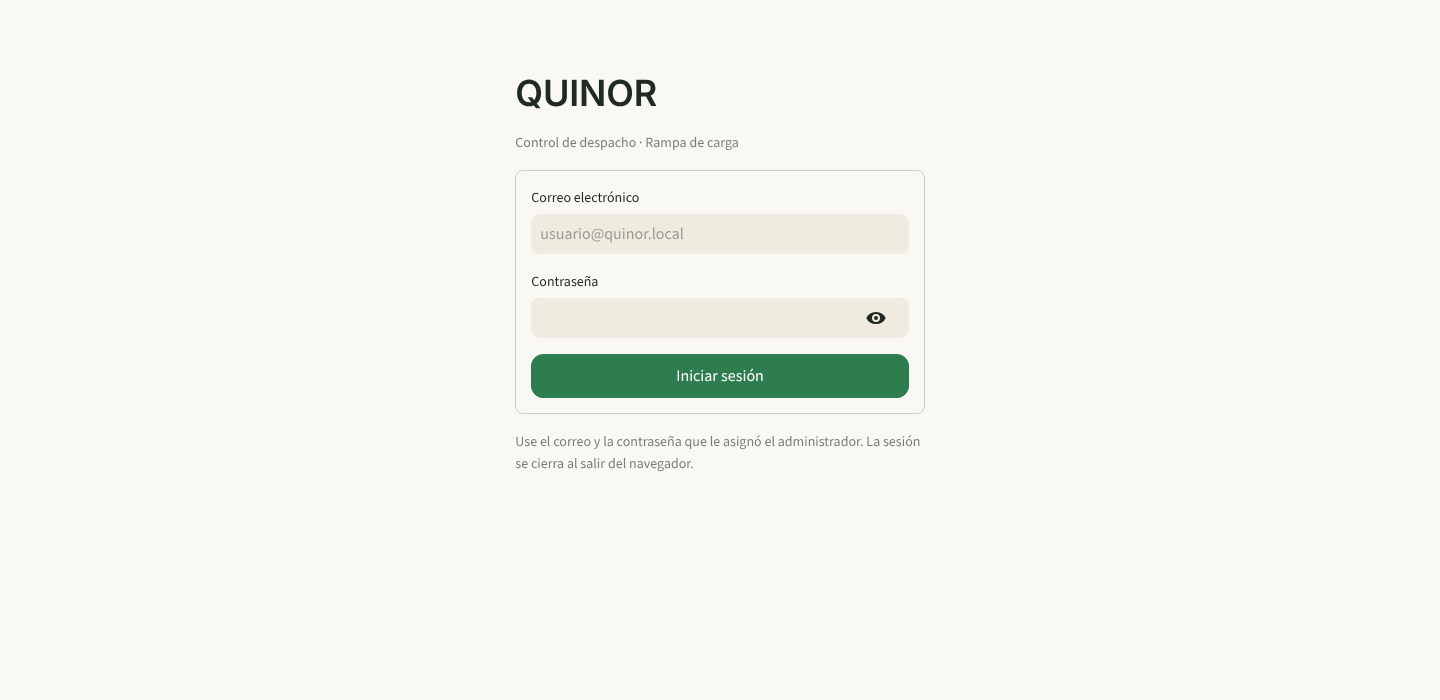
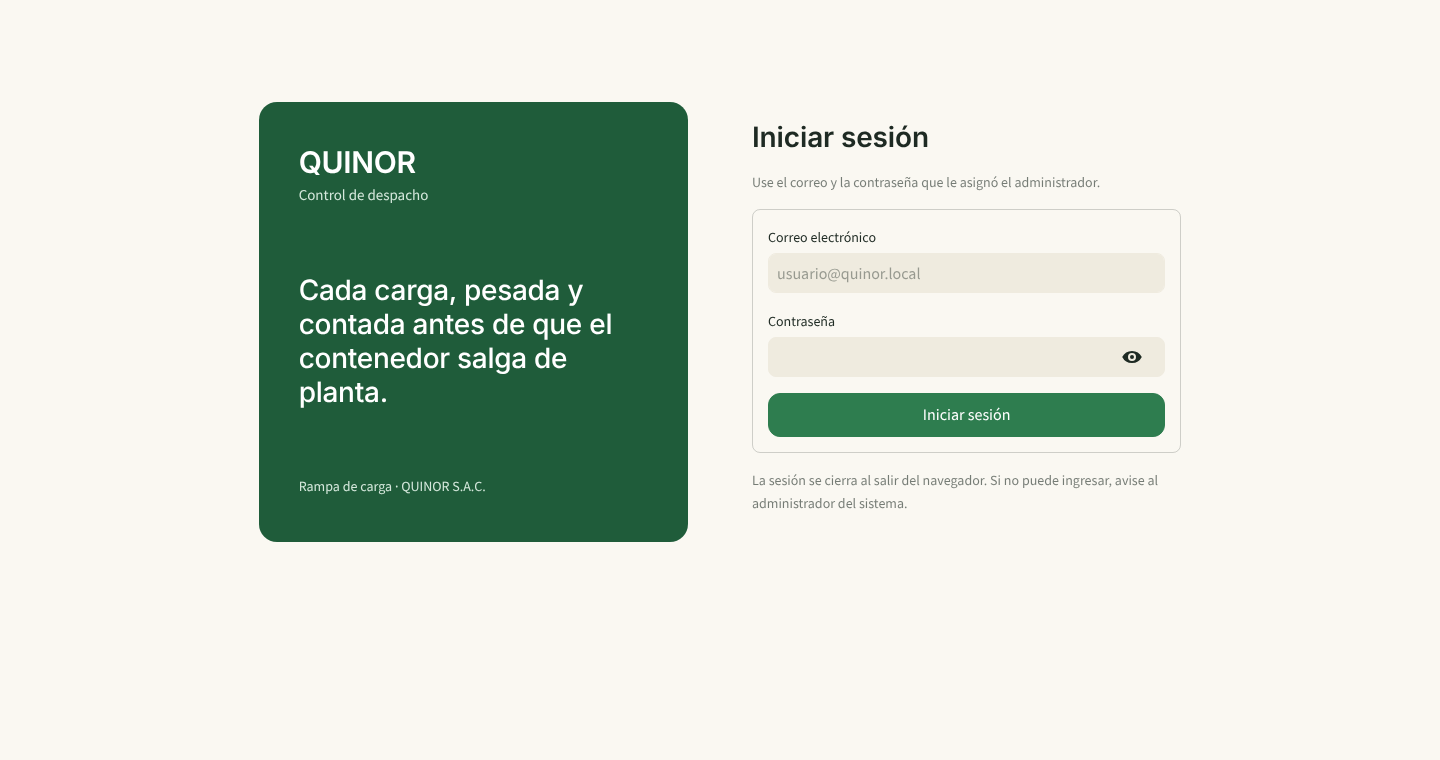
pruebas de nuevos cambios de ux

diff --git a/despacho/api/dashboard/app.py b/despacho/api/dashboard/app.py
@@ -95,6 +95,8 @@ h1, h2, h3, h4, [data-testid="stMetricValue"] {font-family: 'Space Grotesk', Int
 .q-vivo i {width: 8px; height: 8px; border-radius: 50%; background: #2E8B57; animation: q-pulso 2s infinite;}
 .q-vivo.q-caido {color: #9B2C14; font-weight: 500;}
 .q-vivo.q-caido i {background: #9B2C14; animation: none;}
+.q-vivo.q-aviso {color: #7A4F00;}
+.q-vivo.q-aviso i {background: #C98A00; animation: none;}
 @keyframes q-pulso {0% {box-shadow: 0 0 0 0 rgba(46,139,87,.55);} 70% {box-shadow: 0 0 0 10px rgba(46,139,87,0);} 100% {box-shadow: 0 0 0 0 rgba(46,139,87,0);}}
 .q-pasos {display: flex; gap: 6px; margin: 4px 0 2px;}
 .q-paso {flex: 1; display: flex; flex-direction: column; gap: 5px; min-width: 0;}
@@ -116,6 +118,12 @@ h1, h2, h3, h4, [data-testid="stMetricValue"] {font-family: 'Space Grotesk', Int
 .q-dif {font: 500 26px/1.1 'Space Grotesk', Inter, sans-serif; color: #9B2C14; font-variant-numeric: tabular-nums;}
 .q-hall {display: inline-block; font-size: 13px; font-weight: 600; padding: 4px 10px; border-radius: 8px; border: 1px solid #CFC9BA; color: #3A4640; margin-bottom: 6px;}
 .q-hall.q-sust {background: #1E2A23; border-color: #1E2A23; color: #FFFFFF;}
+.q-marca {background: #1F5C3A; color: #FFFFFF; border-radius: 18px; padding: 44px 40px; min-height: 440px; display: flex; flex-direction: column; justify-content: space-between; gap: 32px;}
+.q-marca .q-nombre {font: 600 30px/1.1 'Space Grotesk', Inter, sans-serif; letter-spacing: -.01em;}
+.q-marca .q-sub {color: #D5E8DC; font-size: 15px; margin-top: 4px;}
+.q-marca .q-lema {font: 500 28px/1.22 'Space Grotesk', Inter, sans-serif; letter-spacing: -.01em; max-width: 420px;}
+.q-marca .q-pie {color: #D5E8DC; font-size: 14px;}
+@media (max-width: 760px) {.q-marca {min-height: 0; padding: 28px 24px; gap: 18px;} .q-marca .q-lema {font-size: 21px;}}
 .q-lectura {font: 500 48px/1.15 'Space Grotesk', Inter, sans-serif; letter-spacing: -.02em; font-variant-numeric: tabular-nums; margin: 2px 0 18px;}
 .q-reloj {font: 400 30px/1 'Space Grotesk', Inter, sans-serif; letter-spacing: -.03em; font-variant-numeric: tabular-nums;}
 </style>
@@ -222,23 +230,42 @@ def _intentar_ingreso(correo: str, clave: str) -> None:
 
 
 def pantalla_de_ingreso() -> None:
-    # El formulario va centrado en una columna angosta porque a todo el ancho
-    # los campos median mas de mil pixeles para un correo (critica de UX del
-    # 15/11/2026, fase 6).
-    _, centro, _ = st.columns([1, 1.2, 1])
-    with centro:
-        st.markdown("## QUINOR")
-        st.caption("Control de despacho · Rampa de carga")
-        with st.form("ingreso"):
-            correo = st.text_input("Correo electrónico", placeholder="usuario@quinor.local")
-            clave = st.text_input("Contraseña", type="password")
-            # Sin return aqui: la leyenda de abajo debe dibujarse siempre,
-            # tambien antes de pulsar y cuando el ingreso falla.
-            if st.form_submit_button("Iniciar sesión", type="primary",
-                                     use_container_width=True):
-                _intentar_ingreso(correo, clave)
-        st.caption("Use el correo y la contraseña que le asignó el administrador. "
-                   "La sesión se cierra al salir del navegador.")
+    """Ingreso en dos mitades: a la izquierda que sistema es, a la derecha el
+    formulario. Es el diseno del prototipo de la critica de UX (15/11/2026).
+
+    A todo el ancho los campos median mas de mil pixeles para un correo, y la
+    pantalla no decia a que sistema se estaba entrando. La primera correccion
+    (fase 6) solo centro el formulario; esta le anade el panel de marca. En una
+    pantalla estrecha las dos mitades se apilan y el panel se encoge.
+    """
+    # Un respiro arriba: sin el, la barra superior de Streamlit tapaba el borde
+    # redondeado del panel.
+    st.markdown('<div style="height: 6vh"></div>', unsafe_allow_html=True)
+    _, cuerpo, _ = st.columns([1, 10, 1])
+    with cuerpo:
+        marca, acceso = st.columns(2, gap="large", vertical_alignment="center")
+        marca.markdown(
+            '<div class="q-marca">'
+            '<div><div class="q-nombre">QUINOR</div>'
+            '<div class="q-sub">Control de despacho</div></div>'
+            '<div class="q-lema">Cada carga, pesada y contada antes de que el '
+            'contenedor salga de planta.</div>'
+            '<div class="q-pie">Rampa de carga · QUINOR S.A.C.</div>'
+            '</div>', unsafe_allow_html=True)
+        with acceso:
+            st.markdown("### Iniciar sesión")
+            st.caption("Use el correo y la contraseña que le asignó el administrador.")
+            with st.form("ingreso"):
+                correo = st.text_input("Correo electrónico",
+                                       placeholder="usuario@quinor.local")
+                clave = st.text_input("Contraseña", type="password")
+                # Sin return aqui: la leyenda de abajo debe dibujarse siempre,
+                # tambien antes de pulsar y cuando el ingreso falla.
+                if st.form_submit_button("Iniciar sesión", type="primary",
+                                         use_container_width=True):
+                    _intentar_ingreso(correo, clave)
+            st.caption("La sesión se cierra al salir del navegador. Si no puede "
+                       "ingresar, avise al administrador del sistema.")
 
 
 # -------------------------------------------------------------------- salud
@@ -2189,6 +2216,25 @@ if "token" not in st.session_state:
 
 usuario_actual = st.session_state["usuario"]
 
+@st.cache_data(ttl=20, show_spinner=False)
+def _salud_reciente(token: str) -> tuple[int, dict | None]:
+    """GET /salud, guardado 20 segundos.
+
+    `GET /salud` no lee una tabla: sondea de verdad la bascula por Modbus y el
+    ERP por HTTP. La cabecera se dibuja en cada pasada, asi que sin esto cada
+    clic interrogaba a la bascula, y con la bascula apagada cada pantalla tardaba
+    los 5 segundos de su tiempo limite. Veinte segundos bastan para una linea de
+    estado; la pantalla Estado del sistema sigue preguntando en directo.
+
+    El token es parte de la clave para que una sesion no vea la respuesta (o el
+    401) de otra. Si la peticion falla, la excepcion sale y no se guarda nada.
+    """
+    respuesta = httpx.request("GET", f"{API_URL}/salud", timeout=TIEMPO_LIMITE,
+                              headers={"X-API-Key": token})
+    return respuesta.status_code, (respuesta.json() if respuesta.status_code == 200
+                                   else None)
+
+
 def _estado_de_la_planta() -> str:
     """La linea de estado de la cabecera, leida de GET /salud.
 
@@ -2196,29 +2242,43 @@ def _estado_de_la_planta() -> str:
     preguntarle a nadie. Con una camara caida la cabecera seguia en verde, y un
     indicador que no puede ponerse en rojo es peor que no tener indicador: el
     supervisor aprende a fiarse de el. Convencion 8: un fallo se ve.
+
+    Tres niveles, los mismos que usa la API. "error" va en rojo: algo no
+    responde. "advertencia" va en ambar y no se llama falla: el caso tipico es
+    la bascula en movimiento, que es lo normal mientras se carga un camion. La
+    primera version pintaba las dos cosas en rojo como "componente con falla", y
+    la cabecera daba la alarma cada vez que el peso oscilaba.
     """
     ahora = f"{dt.datetime.now():%d/%m/%Y %H:%M}"
     try:
-        respuesta = pedir("GET", "/salud")
+        codigo, salud = _salud_reciente(st.session_state.get("token", ""))
     except httpx.HTTPError:
         return (f'<span class="q-vivo q-caido"><i></i>Sin conexión con el sistema · '
                 f'{ahora}</span>')
-    if respuesta.status_code == 401:
+    if codigo == 401:
         # La cabecera es lo primero que se dibuja: si el token ya no vale, se
-        # sale aqui en vez de pintar ocho pestanas con el mismo error.
+        # sale aqui en vez de pintar todas las pantallas con el mismo error.
+        _salud_reciente.clear()
         cerrar_sesion()
         st.rerun()
-    if respuesta.status_code != 200:
+    if codigo != 200:
         return (f'<span class="q-vivo q-caido"><i></i>No se pudo leer el estado del '
                 f'sistema · {ahora}</span>')
 
-    componentes = respuesta.json()["componentes"]
-    caidos = [c["componente"] for c in componentes if c["estado"] != "ok"]
+    componentes = salud["componentes"]
+    caidos = [c["componente"] for c in componentes if c["estado"] == "error"]
+    avisos = [c["componente"] for c in componentes
+              if c["estado"] not in ("ok", "error")]
     if caidos:
         cuantos = (f"{len(caidos)} componentes con falla" if len(caidos) > 1
                    else "1 componente con falla")
         return (f'<span class="q-vivo q-caido"><i></i>{cuantos}: {", ".join(caidos)} · '
                 f'consulte Estado del sistema · {ahora}</span>')
+    if avisos:
+        cuantos = (f"{len(avisos)} componentes con advertencia" if len(avisos) > 1
+                   else "1 componente con advertencia")
+        return (f'<span class="q-vivo q-aviso"><i></i>Sistema en línea · {cuantos}: '
+                f'{", ".join(avisos)} · consulte Estado del sistema · {ahora}</span>')
     camaras = sum(1 for c in componentes if c["componente"].startswith(PREFIJO_CAMARA))
     grabando = (f' · {camaras} cámara{"s" if camaras != 1 else ""} grabando'
                 if camaras else "")

diff --git a/despacho/api/docs/ux/verificar_fases_5_y_6.py b/despacho/api/docs/ux/verificar_fases_5_y_6.py
@@ -13,6 +13,7 @@ import sys, httpx, pathlib
 APP=str(pathlib.Path(__file__).resolve().parents[2]/"dashboard"/"app.py")
 from streamlit.testing.v1 import AppTest
 SALUD_OK=True
+BASCULA="ok"
 ROL1="administrador"
 def fila(i,estado="pendiente",**k):
     return dict(id=i,creado_en="2026-11-15T09:12:00",numero_orden=f"ORD-{i}",cliente="Cliente demo",diferencia_kg="-350.00",diferencia_pct="-1.75",sacos_esperados=400,sacos_contados=400,diferencia_sacos=0,personas_detectadas=3,personal_anomalo=True,severidad="alta",estado=estado,tiene_clip=True)|k
@@ -34,7 +35,7 @@ def falso(metodo,url,**k):
     r=url.split("//",1)[1].split("/",1)[1]; r="/"+r; LLAMADAS.append((metodo,r,k.get("json"),k.get("params")))
     def R(c,j): return httpx.Response(c,json=j)
     if r=="/salud":
-        return R(200,dict(estado="ok" if SALUD_OK else "error",componentes=[dict(componente="camara-rampa-01",estado="ok" if SALUD_OK else "error",mensaje="m"),dict(componente="camara-rampa-02",estado="ok",mensaje="m"),dict(componente="bascula",estado="ok",mensaje="m")]))
+        return R(200,dict(estado="ok" if SALUD_OK else "error",componentes=[dict(componente="camara-rampa-01",estado="ok" if SALUD_OK else "error",mensaje="m"),dict(componente="camara-rampa-02",estado="ok",mensaje="m"),dict(componente="bascula",estado=BASCULA,mensaje="m")]))
     if r=="/salud/historial": return R(200,[])
     if r=="/eventos/bandeja":
         f=[fila(214),fila(213,sacos_contados=397,diferencia_sacos=-3,diferencia_kg="-150.00"),fila(212,sacos_contados=None,diferencia_sacos=None,severidad=None)]
@@ -107,6 +108,7 @@ def _boton_pegado(self,label,*a,**k):
     return True if k.get("key") in ABIERTOS else r
 _DG.button=_boton_pegado
 def nueva():
+    import streamlit as st; st.cache_data.clear()   # la cabecera guarda /salud 20 s
     at=AppTest.from_file(APP,default_timeout=30)
     at.session_state["token"]="t"; at.session_state["usuario"]=dict(nombre="S",correo="s@q",rol=ROL_SESION)
     return at.run()
@@ -204,7 +206,7 @@ ok(any("Solo el rol Administrador" in c.value for c in at.caption) and len(at.da
 PANTALLA=None
 at=AppTest.from_file(APP,default_timeout=30).run()
 ok(not at.exception and [t_.label for t_ in at.text_input]==["Correo electrónico","Contraseña"],"F6: ingreso con sus dos campos")
-ok(any("le asignó el administrador" in c.value for c in at.caption) and any(m_.value=="## QUINOR" for m_ in at.markdown),"F6: ingreso centrado, con marca y leyenda")
+ok(any("le asignó el administrador" in c.value for c in at.caption) and any("q-marca" in m_.value and "QUINOR" in m_.value for m_ in at.markdown) and any(m_.value=="### Iniciar sesión" for m_ in at.markdown),"F6: ingreso en dos mitades, con panel de marca y leyenda")
 def cae(*a,**k): raise httpx.ConnectError("x")
 httpx.post=cae
 at.text_input[0].set_value("a@b"); at.text_input[1].set_value("x"); at.button[0].click().run()

diff --git a/despacho/api/docs/ux/verificar_puntos_criticos.py b/despacho/api/docs/ux/verificar_puntos_criticos.py
@@ -13,6 +13,7 @@ import sys, httpx, pathlib
 APP=str(pathlib.Path(__file__).resolve().parents[2]/"dashboard"/"app.py")
 from streamlit.testing.v1 import AppTest
 SALUD_OK=True
+BASCULA="ok"
 def fila(i,estado="pendiente"):
     return dict(id=i,creado_en="2026-11-15T09:12:00",numero_orden=f"ORD-{i}",cliente="Cliente demo",diferencia_kg="-350.00",diferencia_pct="-1.75",sacos_esperados=400,sacos_contados=400,diferencia_sacos=0,personas_detectadas=3,personal_anomalo=True,severidad="alta",estado=estado,tiene_clip=True)
 def detalle(i,dif=-350.0):
@@ -30,7 +31,7 @@ def falso(metodo,url,**k):
     r=url.split("//",1)[1].split("/",1)[1]; r="/"+r; LLAMADAS.append((metodo,r,k.get("json"),k.get("params")))
     def R(c,j): return httpx.Response(c,json=j)
     if r=="/salud":
-        return R(200,dict(estado="ok" if SALUD_OK else "error",componentes=[dict(componente="camara-rampa-01",estado="ok" if SALUD_OK else "error",mensaje="m"),dict(componente="camara-rampa-02",estado="ok",mensaje="m"),dict(componente="bascula",estado="ok",mensaje="m")]))
+        return R(200,dict(estado="ok" if SALUD_OK else "error",componentes=[dict(componente="camara-rampa-01",estado="ok" if SALUD_OK else "error",mensaje="m"),dict(componente="camara-rampa-02",estado="ok",mensaje="m"),dict(componente="bascula",estado=BASCULA,mensaje="m")]))
     if r=="/salud/historial": return R(200,[])
     if r=="/eventos/bandeja":
         f=[fila(214),fila(213),fila(212)]
@@ -75,6 +76,7 @@ def _indices(self):
     return [list(self.options).index(self.format_func(x)) for x in vals]
 _et.ButtonGroup.indices=property(_indices)
 def nueva():
+    import streamlit as st; st.cache_data.clear()   # la cabecera guarda /salud 20 s
     at=AppTest.from_file(APP,default_timeout=30)
     at.session_state["token"]="t"; at.session_state["usuario"]=dict(nombre="S",correo="s@q",rol="supervisor")
     return at.run()
@@ -115,6 +117,12 @@ ok(LLAMADAS[-1][0]=="GET","sin escrituras al volver")
 SALUD_OK=False; at=nueva()
 ok("1 componente con falla: camara-rampa-01" in textos(at),"5: cabecera en rojo con la camara caida")
 SALUD_OK=True
+BASCULA="advertencia"; at=nueva()
+ok("1 componente con advertencia: bascula" in textos(at) and "con falla" not in textos(at) and "q-vivo q-aviso" in textos(at),"5: la bascula en movimiento es advertencia (ambar), no falla")
+BASCULA="error"; at=nueva()
+ok("1 componente con falla: bascula" in textos(at),"5: la bascula sin respuesta si es falla")
+BASCULA="ok"; at=nueva(); n=len(LLAMADAS); at.run(); at.run()
+ok(not [l for l in LLAMADAS[n:] if l[1]=="/salud"],"5: la cabecera no vuelve a sondear /salud en cada pasada (20 s)")
 # pesada manual (AppTest 1.41 no sabe pulsar segmented_control: se fija su valor)
 import streamlit as st; st.segmented_control=lambda *a,**k:"Ingreso manual"
 PANTALLA='Registro de pesada'

diff --git a/despacho/api/docs/ux/verificar_fases_1_a_4.py b/despacho/api/docs/ux/verificar_fases_1_a_4.py
@@ -13,6 +13,7 @@ import sys, httpx, pathlib
 APP=str(pathlib.Path(__file__).resolve().parents[2]/"dashboard"/"app.py")
 from streamlit.testing.v1 import AppTest
 SALUD_OK=True
+BASCULA="ok"
 ROL1="administrador"
 def fila(i,estado="pendiente",**k):
     return dict(id=i,creado_en="2026-11-15T09:12:00",numero_orden=f"ORD-{i}",cliente="Cliente demo",diferencia_kg="-350.00",diferencia_pct="-1.75",sacos_esperados=400,sacos_contados=400,diferencia_sacos=0,personas_detectadas=3,personal_anomalo=True,severidad="alta",estado=estado,tiene_clip=True)|k
@@ -33,7 +34,7 @@ def falso(metodo,url,**k):
     r=url.split("//",1)[1].split("/",1)[1]; r="/"+r; LLAMADAS.append((metodo,r,k.get("json"),k.get("params")))
     def R(c,j): return httpx.Response(c,json=j)
     if r=="/salud":
-        return R(200,dict(estado="ok" if SALUD_OK else "error",componentes=[dict(componente="camara-rampa-01",estado="ok" if SALUD_OK else "error",mensaje="m"),dict(componente="camara-rampa-02",estado="ok",mensaje="m"),dict(componente="bascula",estado="ok",mensaje="m")]))
+        return R(200,dict(estado="ok" if SALUD_OK else "error",componentes=[dict(componente="camara-rampa-01",estado="ok" if SALUD_OK else "error",mensaje="m"),dict(componente="camara-rampa-02",estado="ok",mensaje="m"),dict(componente="bascula",estado=BASCULA,mensaje="m")]))
     if r=="/salud/historial": return R(200,[])
     if r=="/eventos/bandeja":
         f=[fila(214),fila(213,sacos_contados=397,diferencia_sacos=-3,diferencia_kg="-150.00"),fila(212,sacos_contados=None,diferencia_sacos=None,severidad=None)]
@@ -92,6 +93,7 @@ def _boton_pegado(self,label,*a,**k):
     return True if k.get("key") in ABIERTOS else r
 _DG.button=_boton_pegado
 def nueva():
+    import streamlit as st; st.cache_data.clear()   # la cabecera guarda /salud 20 s
     at=AppTest.from_file(APP,default_timeout=30)
     at.session_state["token"]="t"; at.session_state["usuario"]=dict(nombre="S",correo="s@q",rol=ROL_SESION)
     return at.run()
@@ -162,7 +164,7 @@ at.selectbox(key="filtro_severidad").set_value("media").run()
 PANTALLA="Registro de pesada"; n=len(LLAMADAS); at.run()
 ok(not at.exception and "Sistema en línea" in textos(at),"F4: la linea de estado va en todas las pantallas")
 ok("3 eventos" not in textos(at),"F4: el titulo grande solo esta en Eventos")
-rutas={l[1] for l in LLAMADAS[n:]}
+rutas={l[1] for l in LLAMADAS[n:]} | {"/salud"}   # /salud puede venir de la copia de 20 s
 ok(rutas=={"/eventos/bandeja","/salud","/pesadas"},"F4: en Registro de pesada no se piden tokens, usuarios ni tolerancias: "+str(sorted(rutas)))
 PANTALLA=None; at.run()
 ok(at.selectbox(key="filtro_severidad").value=="media","F4: los filtros de la bandeja sobreviven a visitar otra pantalla")

diff --git a/despacho/api/docs/ux/capturar.py b/despacho/api/docs/ux/capturar.py
@@ -77,7 +77,7 @@ def menu(pagina: Page, pantalla: str) -> None:
 def recorrer(pagina: Page) -> None:
     pagina.goto(WEB)
     pagina.get_by_role("button", name="Iniciar sesión").wait_for()
-    captura(pagina, "01_ingreso", 700)
+    captura(pagina, "01_ingreso", 760)
 
     entrar(pagina, SUPERVISOR)
     captura(pagina, "02_eventos", 1000)

diff --git a/despacho/api/docs/ux/CAMBIOS_UX_20261115.md b/despacho/api/docs/ux/CAMBIOS_UX_20261115.md
@@ -237,8 +237,12 @@ Desaparece `_ficha_de_la_orden`.
 - **El supervisor tiene una vista de lectura**, sin campos ni botones
   deshabilitados.
 - **Solo se pide el historial del producto elegido** (antes, el de todos).
-- **Ingreso centrado** en una columna angosta, con el nombre del sistema y una
-  leyenda. Hecho por un subagente y revisado. No se anadio un boton para ver la
+- **Ingreso en dos mitades**, como en el prototipo: a la izquierda un panel
+  verde con el nombre del sistema y para que sirve, a la derecha el formulario.
+  En pantallas estrechas se apilan. La primera version (hecha por un subagente
+  y revisada) solo centraba el formulario; el responsable pidio el diseno del
+  prototipo y se rehizo el mismo 15/11/2026 (`pantalla_de_ingreso`, clase
+  `.q-marca`). Comprobado en el navegador contra el dashboard local. No se anadio un boton para ver la
   contrasena porque el campo de Streamlit ya lo trae: ese punto de la critica
   inicial era incorrecto.
 - "Buffer de video" pasa a "Almacen de grabacion".
@@ -279,6 +283,47 @@ pulsar), y el campo de contrasena trae su boton para verla.
 
 Queda sin corregir, por menor: los correos se dibujan como enlaces.
 
+## Correccion de la linea de estado (15/11/2026, tras verla en uso)
+
+El responsable vio "1 componente con falla: bascula" en la pantalla de Eventos.
+Al revisarlo aparecieron dos defectos del punto critico 5:
+
+- **La cabecera llamaba falla a una advertencia.** `GET /salud` devuelve tres
+  niveles: `ok`, `advertencia` (la bascula en movimiento, que es lo normal
+  mientras se carga y lo que hace el simulador en cada ciclo) y `error` (no
+  responde). La cabecera pintaba en rojo todo lo que no fuera `ok`. Ahora
+  `error` va en rojo como "componente con falla" y `advertencia` en ambar como
+  "Sistema en linea - 1 componente con advertencia".
+- **La cabecera sondeaba la bascula en cada clic.** `GET /salud` no lee una
+  tabla: interroga a la bascula por Modbus y al ERP por HTTP. Con la bascula
+  apagada, cada pantalla tardaba los 5 segundos de su tiempo limite. Ahora la
+  cabecera guarda la respuesta 20 segundos (`_salud_reciente`, con
+  `st.cache_data`). La pantalla Estado del sistema sigue preguntando en directo.
+
+Si tras esto la linea sigue en rojo con "bascula", la bascula no responde de
+verdad: en local, comprobar que el servicio `scale-sim` esta en marcha
+(`docker compose ps scale-sim`) y leer el mensaje en Estado del sistema.
+
+## Por que el dashboard local mostraba la version anterior
+
+El 15/11/2026 el responsable veia el ingreso antiguo aunque `dashboard/app.py`
+ya tenia el nuevo. Causa: en Windows, Docker no propaga al contenedor los
+avisos de cambio de un archivo montado, asi que Streamlit no se enteraba y
+seguia sirviendo el codigo que cargo al arrancar. Lo mismo pudo pasar con cada
+entrega anterior de esta mejora.
+
+Correccion: el servicio `dashboard` de `docker-compose.yml` arranca ahora con
+`--server.fileWatcherType=poll` y `--server.runOnSave=true`. Hace falta recrear
+el contenedor una vez para que tome el comando nuevo:
+
+```powershell
+docker compose up -d --force-recreate api dashboard
+```
+
+Se incluye `api` porque `uvicorn --reload` depende del mismo aviso: sin
+reiniciarla, el endpoint `POST /pesadas/lectura-previa` puede no existir todavia
+en el contenedor y "Leer bascula" fallaria.
+
 ## Como se comprobo
 
 Con `streamlit.testing.v1.AppTest` y una API simulada, sin levantar el entorno:
@@ -290,7 +335,7 @@ python docs/ux/verificar_fases_1_a_4.py
 python docs/ux/verificar_fases_5_y_6.py
 ```
 
-Los tres terminan en "TODO OK" (23, 44 y 42 comprobaciones). No estan en `tests/`
+Los tres terminan en "TODO OK" (26, 44 y 42 comprobaciones). No estan en `tests/`
 porque la convencion 4 pide pruebas contra cosas reales y estas usan respuestas
 de mentira.
 

diff --git a/CONTEXTO_DEL_PROYECTO.md b/CONTEXTO_DEL_PROYECTO.md
@@ -733,7 +733,8 @@ sesion nueva necesita saber; el detalle, funcion por funcion, esta en
    faltan sacos, conteo pendiente).
 6. **Confirmaciones** (`_confirmar`, con `st.dialog`) antes de revocar un
    token, cambiar un rol, desactivar un usuario o cambiar una tolerancia.
-7. **Tolerancias en una tabla**; se edita un producto cada vez.
+7. **Tolerancias en una tabla**; se edita un producto cada vez. **Ingreso en
+   dos mitades** (panel de marca y formulario), como en el prototipo.
 8. **Textos:** tildes y trato de usted en la interfaz, sin jerga. Los
    comentarios del codigo siguen sin tildes.
 
@@ -750,7 +751,10 @@ sesion nueva necesita saber; el detalle, funcion por funcion, esta en
   esperado de la orden, justo el valor que esconde un faltante.
 - **La diferencia de peso de un evento va en rojo, falte o sobre.** Con
   `delta_color="inverse"` fijo, un faltante salia en verde.
-- **La cabecera lee `GET /salud`.** Antes decia "En linea" siempre.
+- **La cabecera lee `GET /salud`.** Antes decia "En linea" siempre. Distingue
+  `error` (rojo, "con falla") de `advertencia` (ambar; la bascula en movimiento
+  no es una falla) y guarda la respuesta 20 segundos, porque `/salud` sondea de
+  verdad la bascula y el ERP en cada llamada.
 - **Elegir un rol en la lista no lo aplica:** hay que pulsar "Aplicar rol" y
   confirmar.
 - **El dashboard no repite reglas de la API.** La tolerancia efectiva, las
@@ -758,6 +762,10 @@ sesion nueva necesita saber; el detalle, funcion por funcion, esta en
 
 **Trampas de Streamlit que costaron tiempo**
 
+- En Windows, Docker no avisa al contenedor de que un archivo montado cambio:
+  el dashboard seguia sirviendo el codigo anterior. El compose arranca ahora con
+  `--server.fileWatcherType=poll`. Tras cambiar el comando o la API,
+  `docker compose up -d --force-recreate api dashboard`.
 - Un control que no se dibuja en una pasada pierde su valor. Los filtros de la
   bandeja se conservan con `_conservar_filtros`, llamado desde el programa.
 - Dentro de un `st.form` no hay redibujado mientras se escribe: por eso no hay
